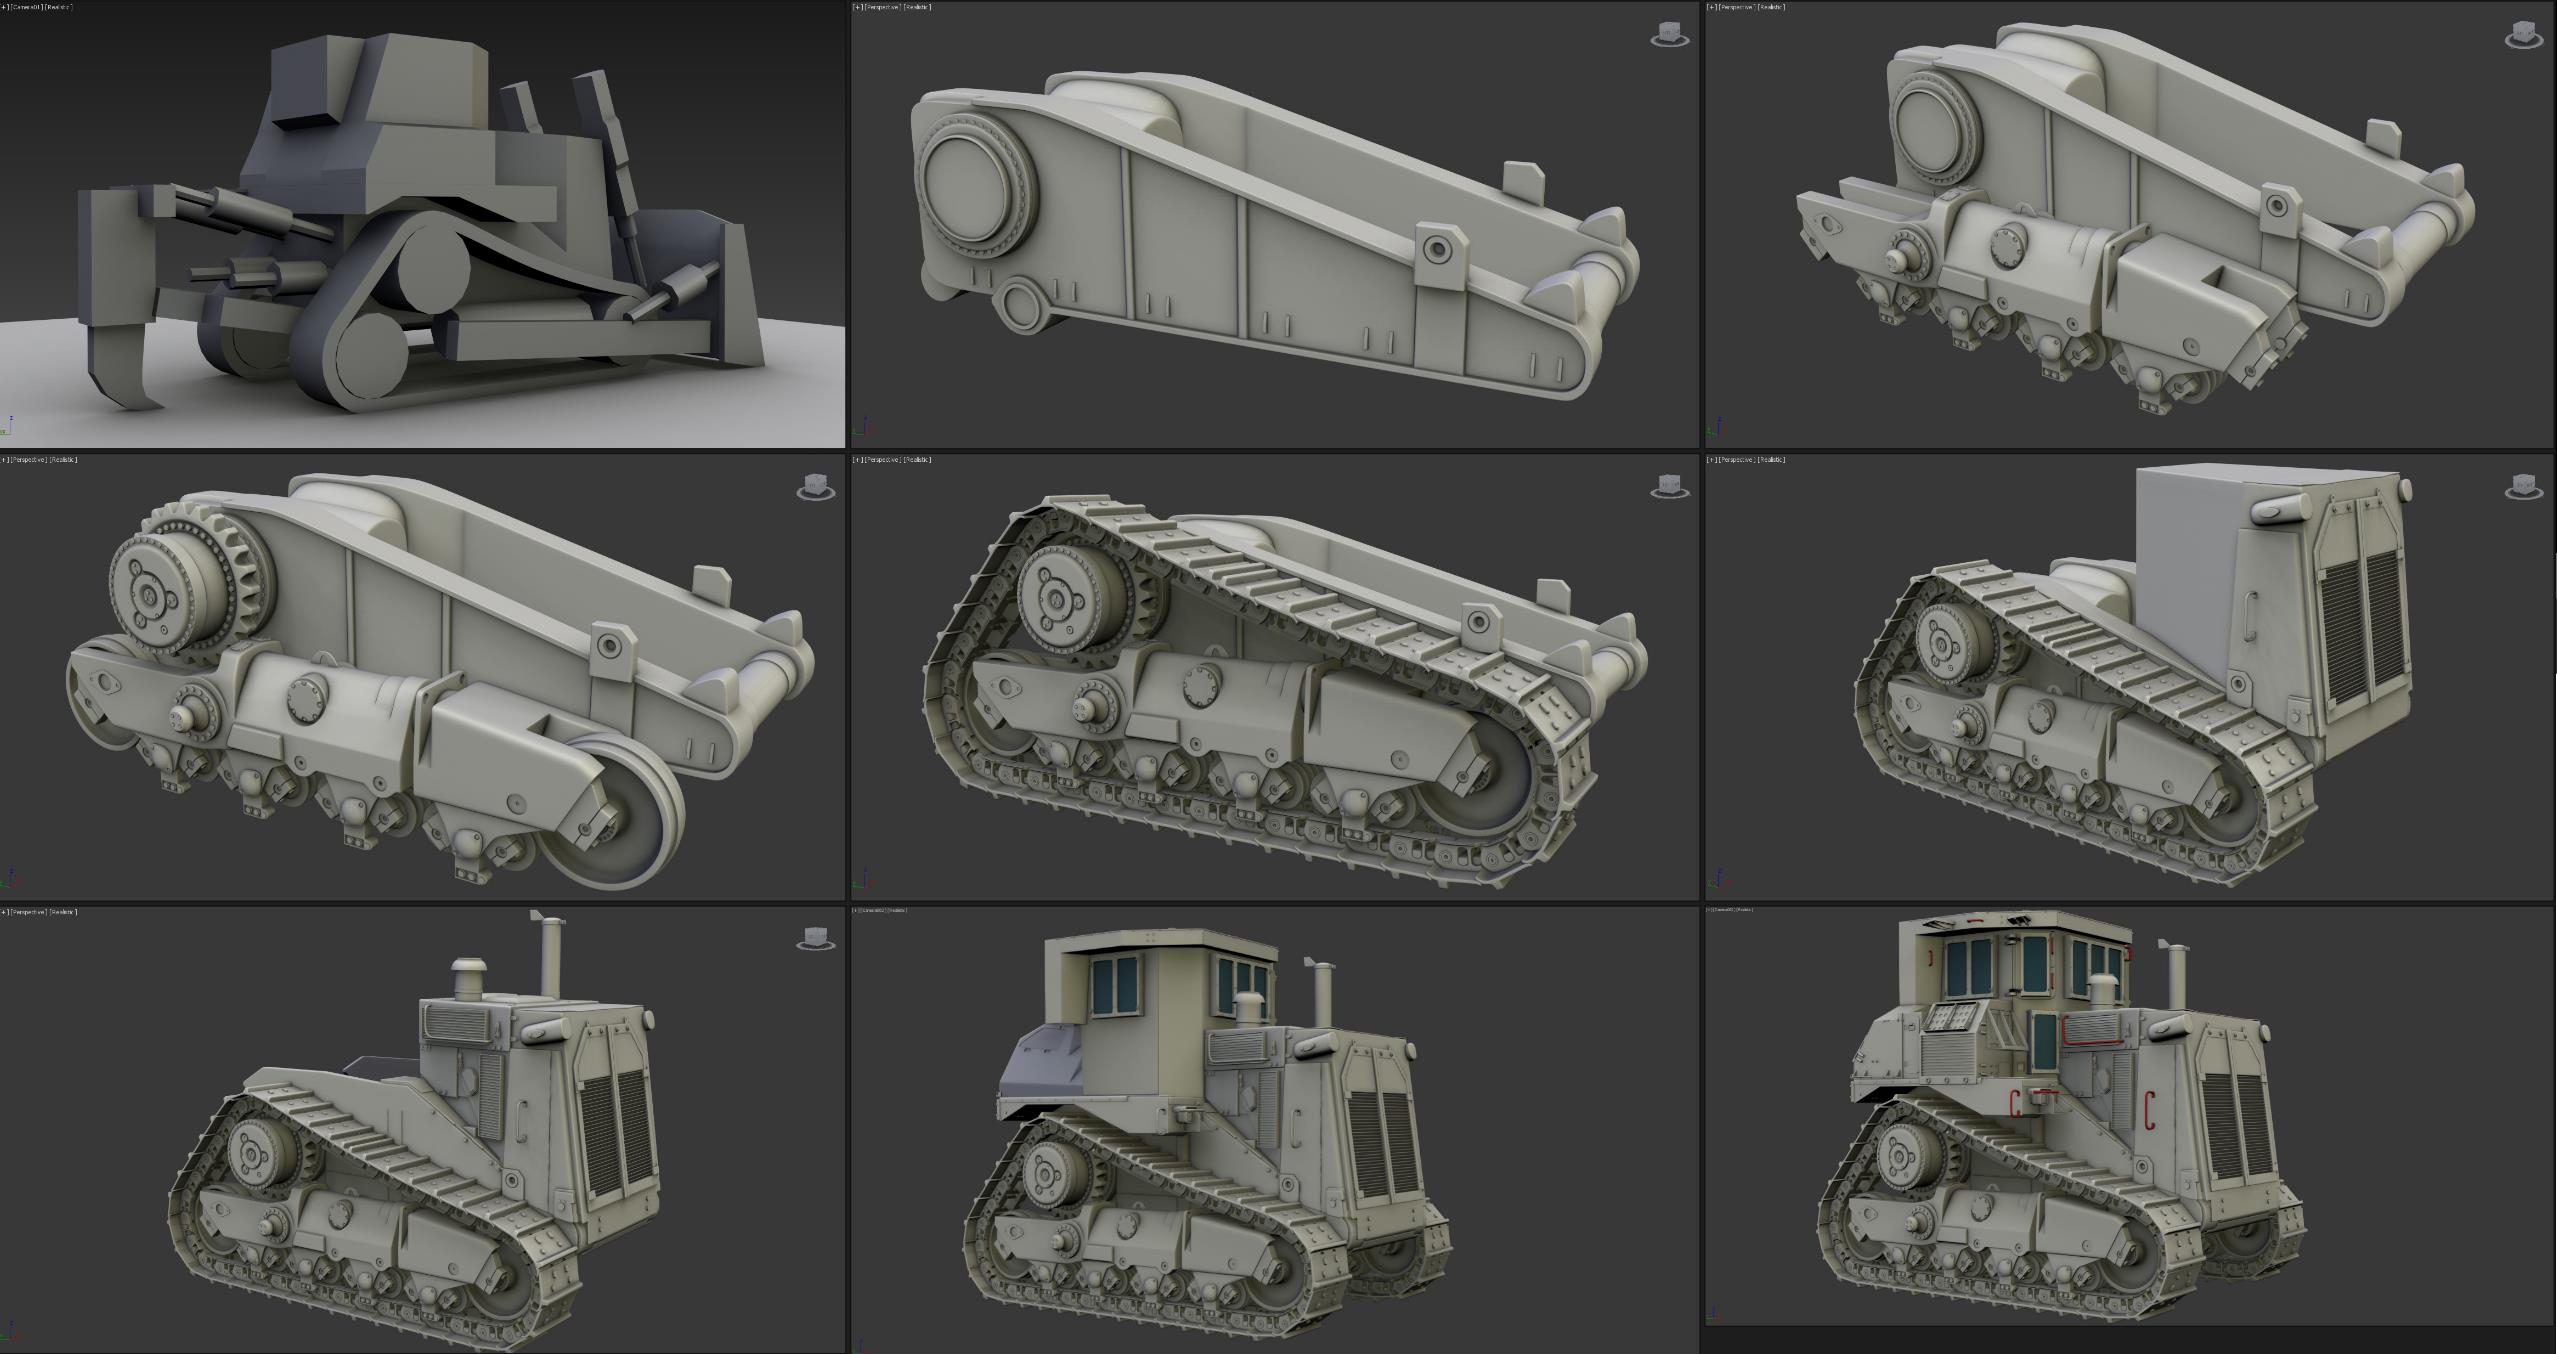
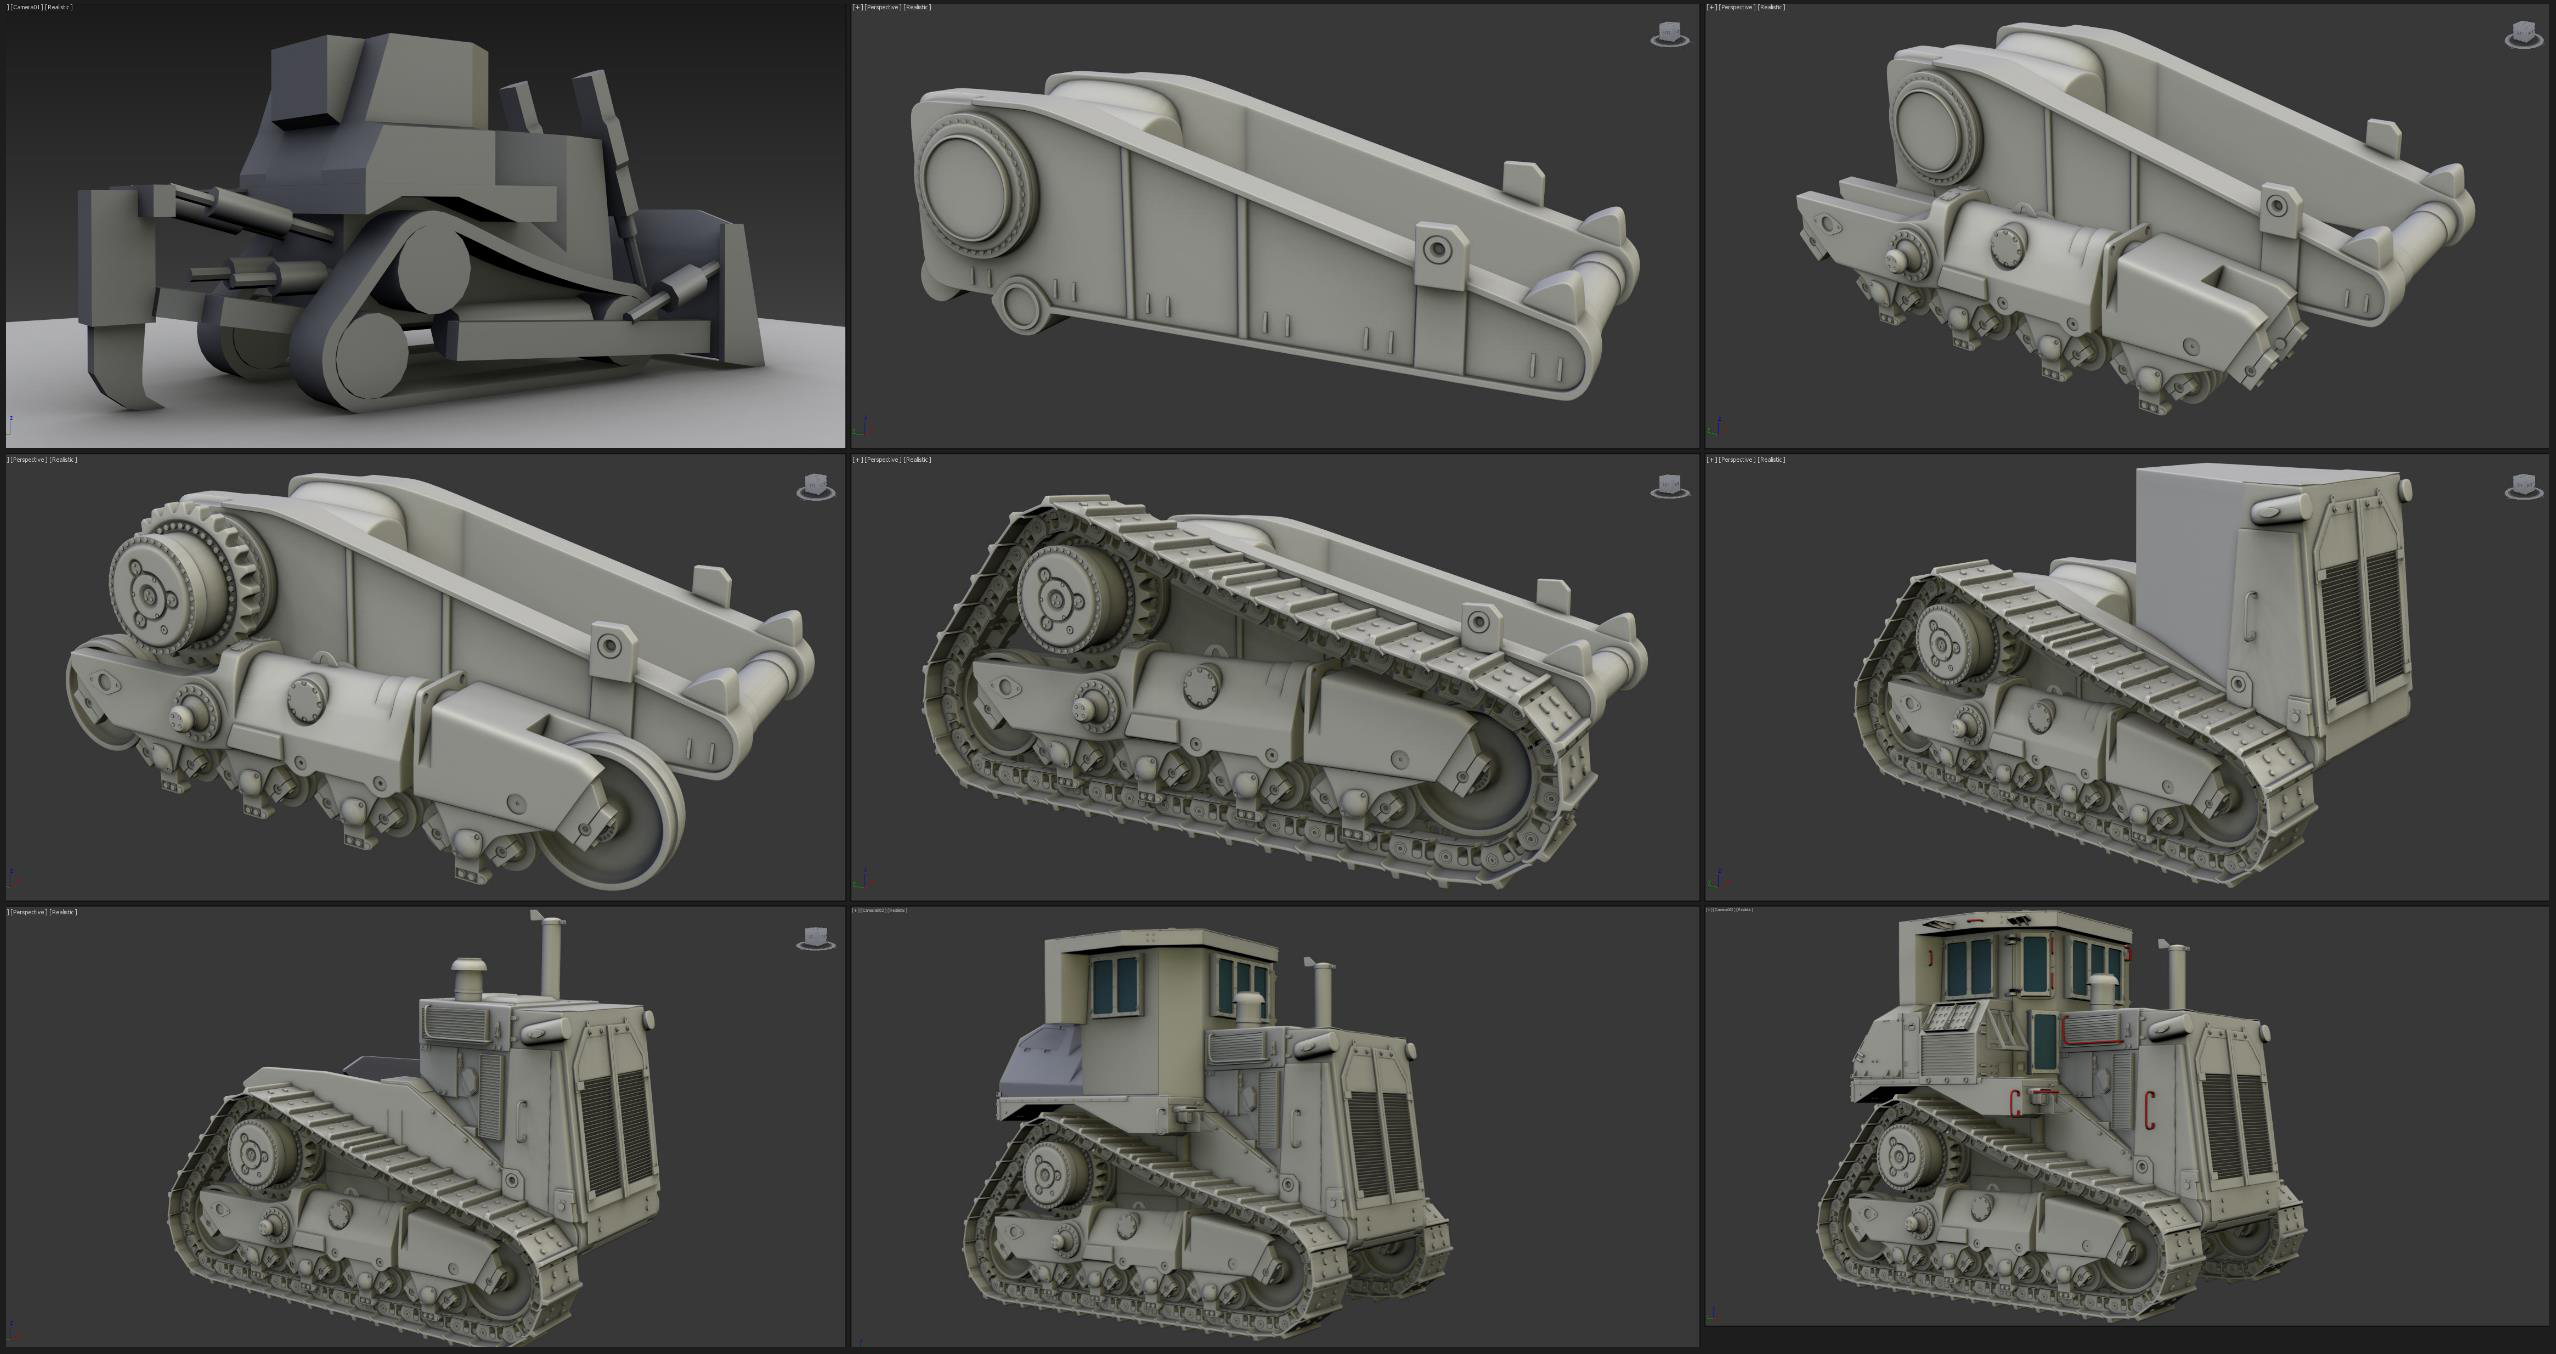
수정

diff --git a/index.html b/index.html
@@ -1598,7 +1598,10 @@ function renderLightbox(instant) {
     if (thumbs) {
       setTimeout(function() {
         var t = thumbs.children[currentIdx];
-        if (t) thumbs.scrollLeft = t.offsetLeft - (thumbs.clientWidth - t.offsetWidth) / 2;
+        if (!t) return;
+        var itemW = t.offsetWidth + 5; // 아이템 너비 + gap
+        var paddingL = 14;
+        thumbs.scrollLeft = paddingL + (currentIdx * itemW) - (thumbs.clientWidth / 2) + (t.offsetWidth / 2);
       }, 30);
     }
     return;
@@ -1616,7 +1619,10 @@ function renderLightbox(instant) {
     if (thumbs) {
       setTimeout(function() {
         var t = thumbs.children[currentIdx];
-        if (t) thumbs.scrollLeft = t.offsetLeft - (thumbs.clientWidth - t.offsetWidth) / 2;
+        if (!t) return;
+        var itemW = t.offsetWidth + 5; // 아이템 너비 + gap
+        var paddingL = 14;
+        thumbs.scrollLeft = paddingL + (currentIdx * itemW) - (thumbs.clientWidth / 2) + (t.offsetWidth / 2);
       }, 30);
     }
     return;
@@ -1634,7 +1640,10 @@ function renderLightbox(instant) {
     if (thumbs) {
       setTimeout(function() {
         var t = thumbs.children[currentIdx];
-        if (t) thumbs.scrollLeft = t.offsetLeft - (thumbs.clientWidth - t.offsetWidth) / 2;
+        if (!t) return;
+        var itemW = t.offsetWidth + 5; // 아이템 너비 + gap
+        var paddingL = 14;
+        thumbs.scrollLeft = paddingL + (currentIdx * itemW) - (thumbs.clientWidth / 2) + (t.offsetWidth / 2);
       }, 30);
     }
   };
@@ -2814,7 +2823,11 @@ function renderProfLb() {
   // 활성 썸네일 가운데 정렬
   setTimeout(function() {
     var activeThumb = thumbs.querySelector('.prof-lb-thumb-item.active');
-    if (activeThumb) thumbs.scrollLeft = activeThumb.offsetLeft - thumbs.clientWidth / 2 + activeThumb.offsetWidth / 2;
+    if (!activeThumb) return;
+    var idx = Array.from(thumbs.querySelectorAll('.prof-lb-thumb-item')).indexOf(activeThumb);
+    var itemW = activeThumb.offsetWidth + 6; // 아이템 너비 + gap
+    var paddingL = 16;
+    thumbs.scrollLeft = paddingL + (idx * itemW) - (thumbs.clientWidth / 2) + (activeThumb.offsetWidth / 2);
   }, 30);
 
   // nav 버튼 표시 여부